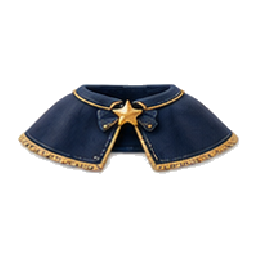
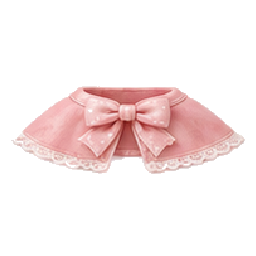
펫 케이프 7종 추가 (원본에서 깨끗이 재추출)
- acc.png 하단 케이프 줄이 기존엔 1개(그것도 깨짐)만 추출됐던 걸,
  7종 전부 개별 bbox로 다시 뜯음: 리본핑크·리본블루·퍼케이프·네이비스타
  ·퍼플젬·체크·블랙크라운 (체커보드 배경 제거+구멍채움+디프린지)
- 상점 '펫꾸미기'에 케이프 1~7 노출 (에픽, 22,000~25,000P)

Changed region(s): [[0.0312, 0.3125, 0.9688, 0.6875]]

diff --git a/index.html b/index.html
@@ -657,7 +657,7 @@ document.addEventListener('click',function(e){ var m=e.target.closest('[data-met
 var PETNM=['골든리트리버','웰시코기','포메라니안','푸들','시바견','비글','닥스훈트','허스키','프렌치불독','말티즈','슈나우저','치와와','사모예드','보더콜리','카발리에','브리티시숏헤어','히말라얀','스코티시폴드','페르시안','샴','벵갈','삼색냥','턱시도냥','치즈냥','검은냥','러시안블루','갈색태비','메인쿤','아메숏','흰페르시안'];
 var PETPR=[4000,4500,7000,9000,5000,4000,5500,14000,8000,9500,7500,4500,20000,6500,10000,13000,22000,15000,26000,11000,24000,9000,6500,6000,7000,18000,7000,32000,9000,28000];
 var PETS=PETNM.map(function(n,i){return ['pt'+i,n,PETPR[i]];});
-var PAROW=[0,0,0,0,0,0,0,1,1,1,1,1,1,1,2,2,2,2,2,2,2,3,3,3,3,3,3,3,4,4,4,4,4,4,4,5,5,5,5,5,5,5,6,6,6,6,6,7,7,7,7,7,7,7,8,8,8,8,8,8,8,9,9,9,9,9,9,9,10,10,10,10,10,10,10,11];
+var PAROW=[0,0,0,0,0,0,0,1,1,1,1,1,1,1,2,2,2,2,2,2,2,3,3,3,3,3,3,3,4,4,4,4,4,4,4,5,5,5,5,5,5,5,6,6,6,6,6,7,7,7,7,7,7,7,8,8,8,8,8,8,8,9,9,9,9,9,9,9,10,10,10,10,10,10,10,11,11,11,11,11,11,11];
 var PACAT=['목줄','리본목줄','반다나','하네스','나비넥타이','목도리','왕관','귀·모자','모자','안경','목걸이·가방','케이프'];
 var PAPR=[2000,2800,2400,4500,2400,3800,16000,6000,7500,3200,9000,22000];
 var PASLOT=['neck','neck','neck','neck','neck','neck','head','head','face','neck','neck','neck'];

diff --git a/landscape.html b/landscape.html
@@ -657,7 +657,7 @@ document.addEventListener('click',function(e){ var m=e.target.closest('[data-met
 var PETNM=['골든리트리버','웰시코기','포메라니안','푸들','시바견','비글','닥스훈트','허스키','프렌치불독','말티즈','슈나우저','치와와','사모예드','보더콜리','카발리에','브리티시숏헤어','히말라얀','스코티시폴드','페르시안','샴','벵갈','삼색냥','턱시도냥','치즈냥','검은냥','러시안블루','갈색태비','메인쿤','아메숏','흰페르시안'];
 var PETPR=[4000,4500,7000,9000,5000,4000,5500,14000,8000,9500,7500,4500,20000,6500,10000,13000,22000,15000,26000,11000,24000,9000,6500,6000,7000,18000,7000,32000,9000,28000];
 var PETS=PETNM.map(function(n,i){return ['pt'+i,n,PETPR[i]];});
-var PAROW=[0,0,0,0,0,0,0,1,1,1,1,1,1,1,2,2,2,2,2,2,2,3,3,3,3,3,3,3,4,4,4,4,4,4,4,5,5,5,5,5,5,5,6,6,6,6,6,7,7,7,7,7,7,7,8,8,8,8,8,8,8,9,9,9,9,9,9,9,10,10,10,10,10,10,10,11];
+var PAROW=[0,0,0,0,0,0,0,1,1,1,1,1,1,1,2,2,2,2,2,2,2,3,3,3,3,3,3,3,4,4,4,4,4,4,4,5,5,5,5,5,5,5,6,6,6,6,6,7,7,7,7,7,7,7,8,8,8,8,8,8,8,9,9,9,9,9,9,9,10,10,10,10,10,10,10,11,11,11,11,11,11,11];
 var PACAT=['목줄','리본목줄','반다나','하네스','나비넥타이','목도리','왕관','귀·모자','모자','안경','목걸이·가방','케이프'];
 var PAPR=[2000,2800,2400,4500,2400,3800,16000,6000,7500,3200,9000,22000];
 var PASLOT=['neck','neck','neck','neck','neck','neck','head','head','face','neck','neck','neck'];